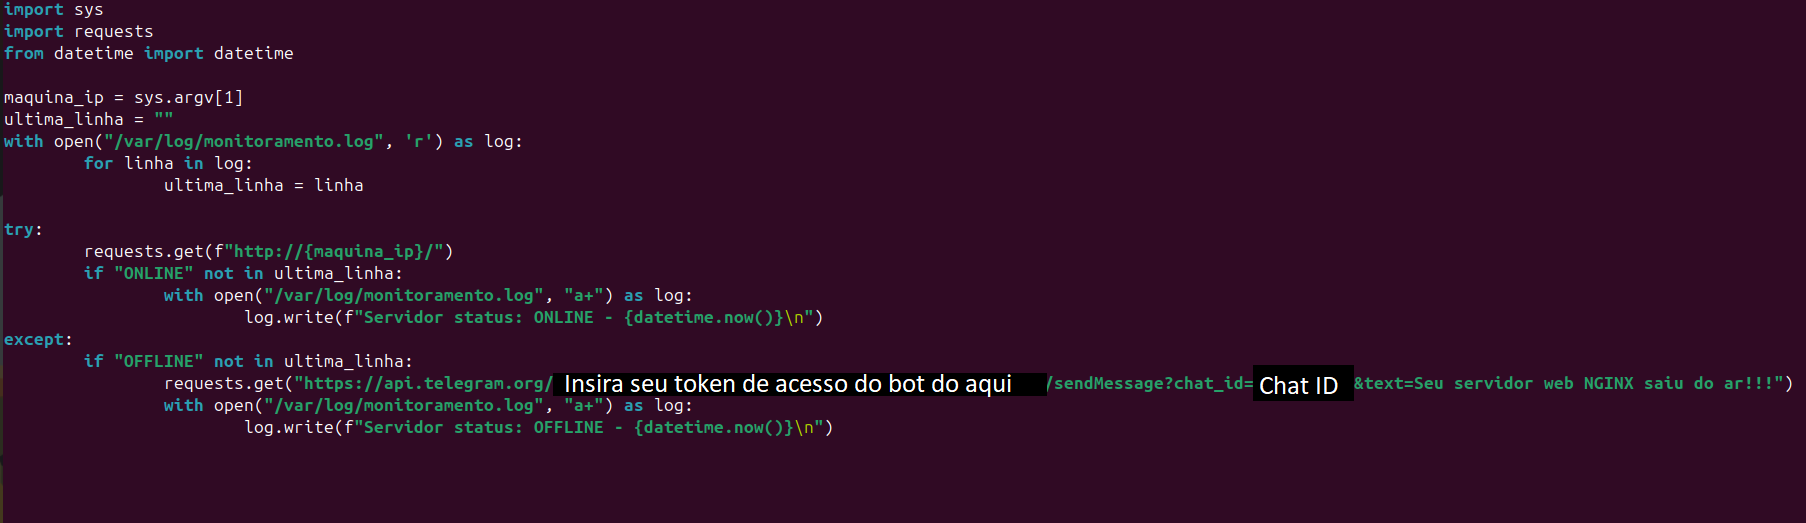
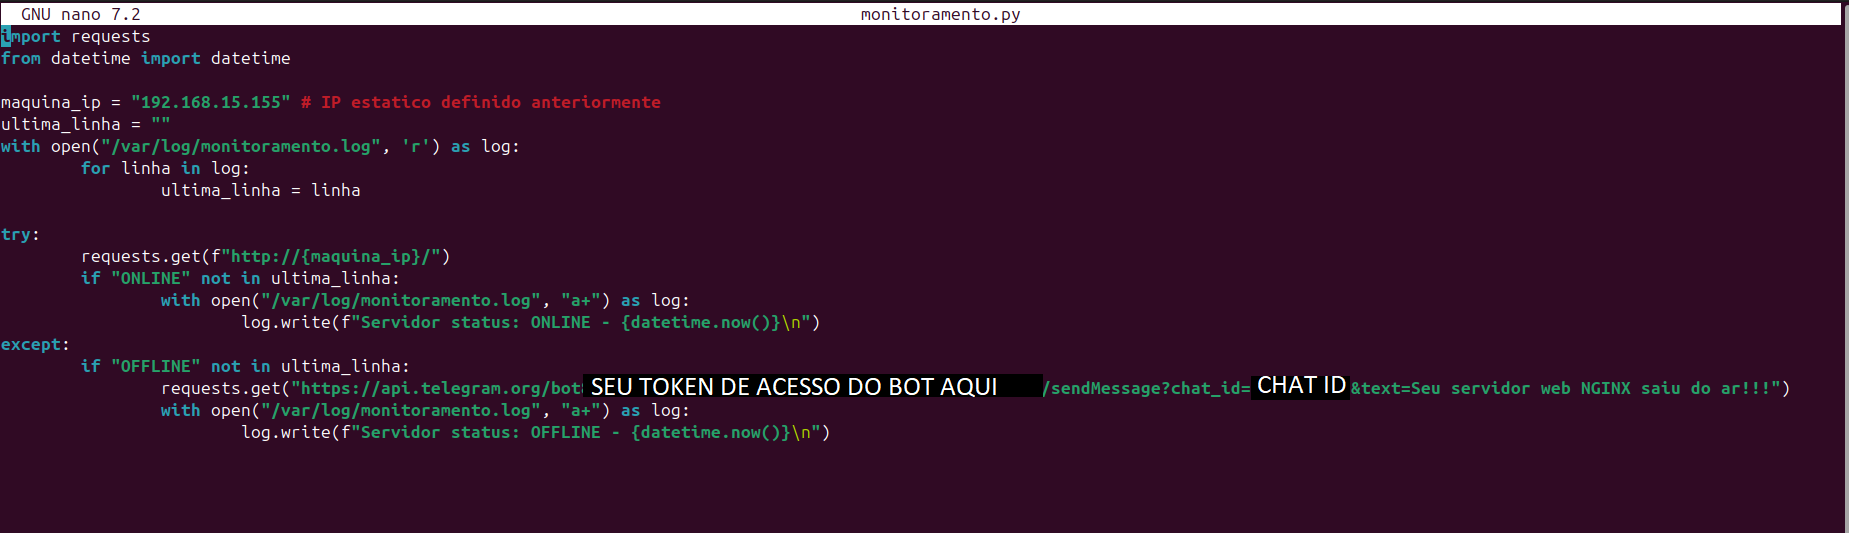
IP estatico

diff --git a/monitoramento.py b/monitoramento.py
@@ -1,8 +1,8 @@
-import sys
 import requests
 from datetime import datetime
 
-maquina_ip = sys.argv[1]
+maquina_ip = "192.168.15.155" # IP estatico definido anteriormente
+# colocar de acordo com o IP do seu servidor
 ultima_linha = ""
 with open("/var/log/monitoramento.log", 'r') as log:
         for linha in log:
@@ -15,6 +15,6 @@ try:
                         log.write(f"Servidor status: ONLINE - {datetime.now()}\n")
 except:
         if "OFFLINE" not in ultima_linha:
-                requests.get("https://api.telegram.org/bot[SEU TOKEN DE ACESSO DO BOT AQUI]/sendMessage?chat_id=[SEU ID DO CHAT AQUI]&text=Seu servidor web NGINX saiu do ar!!!")
+                requests.get("https://api.telegram.org/bot[SEU TOKEN DE ACESSO DO BOT AQUI]/sendMessage?chat_id=[SEU ID DO CHAT DO TELEGRAM]&text=Seu servidor web NGINX saiu do ar!!!")
                 with open("/var/log/monitoramento.log", "a+") as log:
                         log.write(f"Servidor status: OFFLINE - {datetime.now()}\n")

diff --git a/MONITORAMENTO.md b/MONITORAMENTO.md
@@ -6,9 +6,9 @@ Essa é a terceira etapa do projeto, o objetivo é criar um script para monitora
 
 Navegue até o diretório "**/var/log/**" com o comando "**cd**" e crie com "**touch**" o arquivo "**monitoramento.log**", nesse arquivo manteremos registro de paradas e inicializações do serviço.
 
-Crie um diretório para armazenar o script, nesse caso vou criar um diretório "**/var/script**" utilizando do comando "**mkdir /var/script**" (lembrando que a permissão de usuario root ainda é necessaria), com ele criado acesse usando o comando "**cd**", a criação do programa pode ser realizada com qualquer linguagem e ferramenta disponível, para esse propósito estarei usando "**python**" e "**shell script**". 
+Crie um diretório para armazenar o script, nesse caso vou criar um diretório "**/var/script**" utilizando do comando "**mkdir /var/script**" (lembrando que a permissão de usuario root ainda é necessaria), com ele criado acesse usando o comando "**cd**", a criação do programa pode ser realizada com qualquer linguagem e ferramenta disponível, para esse propósito estarei usando "**python**". 
 
-Digite o comando "**touch monitoramento.py**" e "**touch monitoramento.sh**" para gerar os arquivos em que será escrito o script.
+Digite o comando "**touch monitoramento.py**" para gerar o arquivo em que será escrito o script.
 
 ## Adquirindo bot do Telegram
 
@@ -28,27 +28,17 @@ Agora, para ler o código dessa conversa, é necessário enviar uma requisição
 
 ![JSON de resposta](Imagens/Imagem8.PNG)
 
-## Escrevendo o shell script
-
-Voltando à máquina virtual do servidor, usaremos "**python**" com as bibliotecas "**requests**", "**sys**" e "**datetime**". Esses itens normalmente já vem instalados no sistema operacional, mas caso não, é um requisito instalá-los primeiro.
-
-Abra com algum editor de texto o arquivo "**monitoramento.sh**" que guardamos na pasta "**/var/script**", na primeira linha digite #! /bin/bash para iniciar o arquivo, na segunda linha IP_DO_SERVIDOR=$(ip addr show dev enp0s3 | grep "inet " | awk '{print $2}' | cut -d/ -f1) para armazenar em uma variável do sistema de forma dinâmica o IP da placa de rede enp0s3, e por último na terceira linha python3 /var/script/monitoramento.py $IP_DO_SERVIDOR para executar o arquivo python passando como parâmetro a variável que foi declarada, após isso pode fechar o arquivo.
-
-[Clique para ver o script bash aqui.](monitoramento.sh)
-
-![Script monitoramento.sh](Imagens/Imagem9.PNG)
-
 ## Escrevendo python
 
-Agora abra com o editor de texto o arquivo "**monitoramento.py**", nas primeiras linhas do código, escreva as linhas de importações de bibliotecas, importando "sys", "datetime" e "requests".
+Agora abra com o editor de texto o arquivo "**monitoramento.py**", nas primeiras linhas do código, escreva as linhas de importações de bibliotecas, importando "datetime" e "requests".
 
-Iniciando com o código de fato, armazene em uma variável o argumento de entrada que o arquivo shell script envia juntamente com a execução do python. Como esse valor vai ser passado pelo script, não tem necessidade de validar entrada de usuário aqui. Use o método "**argv**" da biblioteca "**sys**" para acessar os argumentos, o IP é o segundo argumento, pois o primeiro é sempre o próprio nome do arquivo chamado.
+Iniciando com o código de fato, armazene em uma variável o endereço de IP estático que definimos anteriormente.
 
 No próximo passo, vamos carregar em memória a última linha do arquivo de log que criamos. Declare e inicialize uma variável que vai conter a última linha, abra o arquivo do log em modo de leitura e itere linha por linha até a última, registrando essa na variável.
 
 Continuando, abra um bloco try-except que tentará a conexão com a nossa página e lidará com a exceção. Dentro do bloco try, com "**requests.get(f"http://{maquina_ip}/")**", nós estaremos tentando a conexão com o nosso próprio IP para receber a página web. No caso de sucesso, verifique se a última linha do log não contém a palavra "ONLINE". Nesse caso, abra o arquivo do log em modo "append" e escreva uma linha nova para ser adicionada ao log indicando que o serviço está online e funcional. É recomendado adicionar a data e hora atual no registro do log, para isso se utiliza a biblioteca "**datetime**".
 
-Já no caso de fracasso da requisição HTTP, verifique se a última linha do log não contém a palavra "OFFLINE", nesse caso precisamos notificar o administrador via bot do telegram e escrever no log o novo estado do servidor que é indisponível ou offline, para isso envie uma requisição GET para o endpoint da API do Telegram, o endereço é "**https://api.telegram.org/bot[SEU TOKEN DE ACESSO DO BOT AQUI]/sendMessage? chat_id=[SEU ID DO CHAT AQUI]&text=[SUA MENSAGEM QUE O BOT ENVIARÁ]**", substituindo devidamente com as suas informações, isso deve enviar a mensagem via Telegram. Após isso, ainda é importante abrir o arquivo log em modo "append" e adicionar uma nova linha informando que o servidor está offline e novamente informando a data e hora com a biblioteca "**datetime**".
+Já no caso de fracasso da requisição HTTP, verifique se a última linha do log não contém a palavra "OFFLINE", nesse caso precisamos notificar o administrador via bot do telegram e escrever no log o novo estado do servidor que é indisponível ou offline, para isso envie uma requisição GET para o endpoint da API do Telegram, o endereço é "**https://api.telegram.org/bot[SEU TOKEN DE ACESSO DO BOT AQUI]/sendMessage?chat_id=[SEU ID DO CHAT AQUI]&text=[SUA MENSAGEM QUE O BOT ENVIARÁ]**", substituindo devidamente com as suas informações, isso deve enviar a mensagem via Telegram. Após isso, ainda é importante abrir o arquivo log em modo "append" e adicionar uma nova linha informando que o servidor está offline e novamente informando a data e hora com a biblioteca "**datetime**".
 
 [Clique para ver o script Python aqui.](monitoramento.py)
 
@@ -56,10 +46,12 @@ Já no caso de fracasso da requisição HTTP, verifique se a última linha do lo
 
 ## Programando a execução
 
-Nesse passo, vamos programar para que a execução do "**monitoramento.sh**" seja realizada automaticamente a cada 1 minuto, dessa forma a funcionalidade de monitoramento do servidor web estará pronta.
+Nesse passo, vamos programar para que a execução do "**monitoramento.py**" seja realizada automaticamente a cada 1 minuto, dessa forma a funcionalidade de monitoramento do servidor web estará pronta.
 
 Para criar uma tarefa sendo executada de tempos em tempos, digite o comando "**crontab -e**", ele dará as opções e pedirá para que você selecione o editor de texto que deseja usar, selecione o que se sentir mais confortável.
 
-Automaticamente será aberto o editor de texto escolhido com vários comentários explicando o funcionamento do comando, basicamente são seis valores de entrada que correspondem a [minuto] [hora] [dia do mês] [mês] [dia da semana] [comando que será executado]. Dessa forma, digite "* * * * * /var/script/monitoramento.sh", isso quer dizer que em qualquer minuto ele vai executar o arquivo de shell script.
+Automaticamente será aberto o editor de texto escolhido com vários comentários explicando o funcionamento do comando, basicamente são seis valores de entrada que correspondem a [minuto] [hora] [dia do mês] [mês] [dia da semana] [comando que será executado]. Dessa forma, digite "* * * * * /usr/bin/python3 /var/script/monitoramento.py", isso quer dizer que em qualquer minuto ele vai executar o arquivo de python.
 
-Isso finaliza a etapa 3, Monitoramento e Notificações. Para seguir, clique em [próximo](TESTES.md).
+Um último detalhe é tornar o arquivo python executável, use o comando "**chmod +x /var/script/monitoramento.py**".
+
+Isso finaliza a etapa 3, "**Monitoramento e Notificações**". Para seguir, clique em [próximo](TESTES.md).

diff --git a/SERVIDORWEB.md b/SERVIDORWEB.md
@@ -24,13 +24,37 @@ Clique para visualizar o conteúdo do meu arquivo [index.html](index.html).
 
 ![Página HTML](Imagens/Imagem6.PNG)
 
+## Definindo IP estático para o servidor
+
+Uma boa prática para um servidor é definir um endereço de IP estático para que os outros dispositivos na rede possam localizá-lo mais facilmente.
+
+Com esse objetivo, navegue até a pasta "**/etc/netplan/**" e abra com o nano ou outro editor de texto o arquivo "**01-network-manager-all.yaml**". Dentro deste arquivo, precisaremos realizar algumas modificações.
+
+Atenção ao modificar, pois esse tipo de arquivo .yaml precisa estar indentado corretamente. Dentro do escopo de "**network:**", adicione uma linha escrito "**ethernets:**". Todas as configurações serão feitas aqui em "**ethernets**". Adicione uma linha com o nome do adaptador de rede do sistema (para descobrir o nome, use o comando "**ip a**", desconsidere o "lo" de loopback, o restante são os seus adaptadores de rede e suas informações).
+
+Prosseguindo, todas as demais configurações também serão escritas dentro do escopo do adaptador de rede, a primeira configuração que deve ser escrita é "**dhcp4: no**" para desabilitar o protocolo DHCP que atribui dinamicamente endereços IP. 
+
+Antes de prosseguir com a configuração, uma informação importante que deve ser obtida é o endereço padrão de gateway da rede. Para descobrir isso, fora da máquina virtual, se você usa Windows, no "cmd", digite o comando "ipconfig" e procure por endereço de gateway no dispositivo de rede utilizado.
+
+A próxima linha é "**addresses:**", tendo criado esta linha, na próxima linha dentro de "addresses" digite um traço - e o número do endereço de IP estático que deseja que o servidor use, seguido dele a máscara de sub-rede. Recomendo só alterar os últimos números do endereço de gateway e digitar a máscara de sub-rede "/24" após o endereço IP estático.
+
+Prosseguindo, crie mais uma linha, agora saindo do escopo de "addresses" e voltando ao escopo do adaptador de rede utilizado, digite "**gateway4:**" e, em seguida, copie o endereço de gateway padrão da sua rede.
+
+Para finalizar, na linha seguinte digite "**nameservers:**", dentro do escopo dele digite "**addresses:**" novamente, em seguida "**[8.8.8.8, 8.8.4.4]**" para definir os endereços de DNS padrão.
+
+Feche o editor de texto salvando o conteúdo alterado, para aplicar as configurações que criamos, use o comando "**netplan apply**".
+
+Clique para visualizar o conteúdo do [arquivo de configurações da rede](01-network-manager-all.yaml).
+
+![Configurações da rede.](Imagens/Imagem12.PNG)
+
 ## Automatizando reinicio do Nginx
 
 Para isso, vamos criar um serviço systemd para o Nginx, fazendo com que ele reinicie automaticamente sempre em caso de falha.
 
 Utilize o comando "**systemctl edit nginx.service**", esse comando criará um arquivo que adiciona configurações aos padrões do Nginx sem modificar os arquivos originais, ele também abrirá o editor de texto para modificar o arquivo que estará cheio de comentários, pode escrever as configurações logo após o primeiro bloco de comentários.
 
-O que deve ser escrito é, "**[Service]**" para indicar que se trata de configurações de serviço do processo, logo abaixo "**Restart=on-failure**" que indica para reiniciar o serviço em caso de falha, e mais uma linha embaixo "**RestartSec=5s**" para dar tempo ao sistema reiniciar o processo sem gerar muitos pedidos para essa tarefa.
+O que deve ser escrito é, "**[Service]**" para indicar que se trata de configurações de serviço do processo, logo abaixo "**Restart=on-failure**" que indica para reiniciar o serviço em caso de falha (uma outra opção seria colocar "**Restart=always**" para ele sempre tentar reiniciar), e mais uma linha embaixo "**RestartSec=5s**" para dar tempo ao sistema reiniciar o processo sem gerar muitos pedidos para essa tarefa.
 
 Salve as alterações e feche o arquivo, agora para verificar se deu certo utilize o comando "**systemctl status nginx.service**" e procure pela linha "**Drop-In**" contendo "**override.conf**".
 

diff --git a/TESTES.md b/TESTES.md
@@ -31,4 +31,4 @@ Além disso, abra o Telegram para conferir se o bot enviou corretamente a mensag
 
 ![Conversa com o bot](Imagens/Imagem11.PNG)
 
-Isso finaliza a etapa 4, Configuração do Servidor Web, e o projeto "**Infraestrutura Web com Monitoramento Automatizado**". Obrigado por ler até aqui.
+Isso finaliza a etapa 4, "**Testes e Documentação**", e o projeto "**Infraestrutura Web com Monitoramento Automatizado**". Obrigado por ler até aqui.
